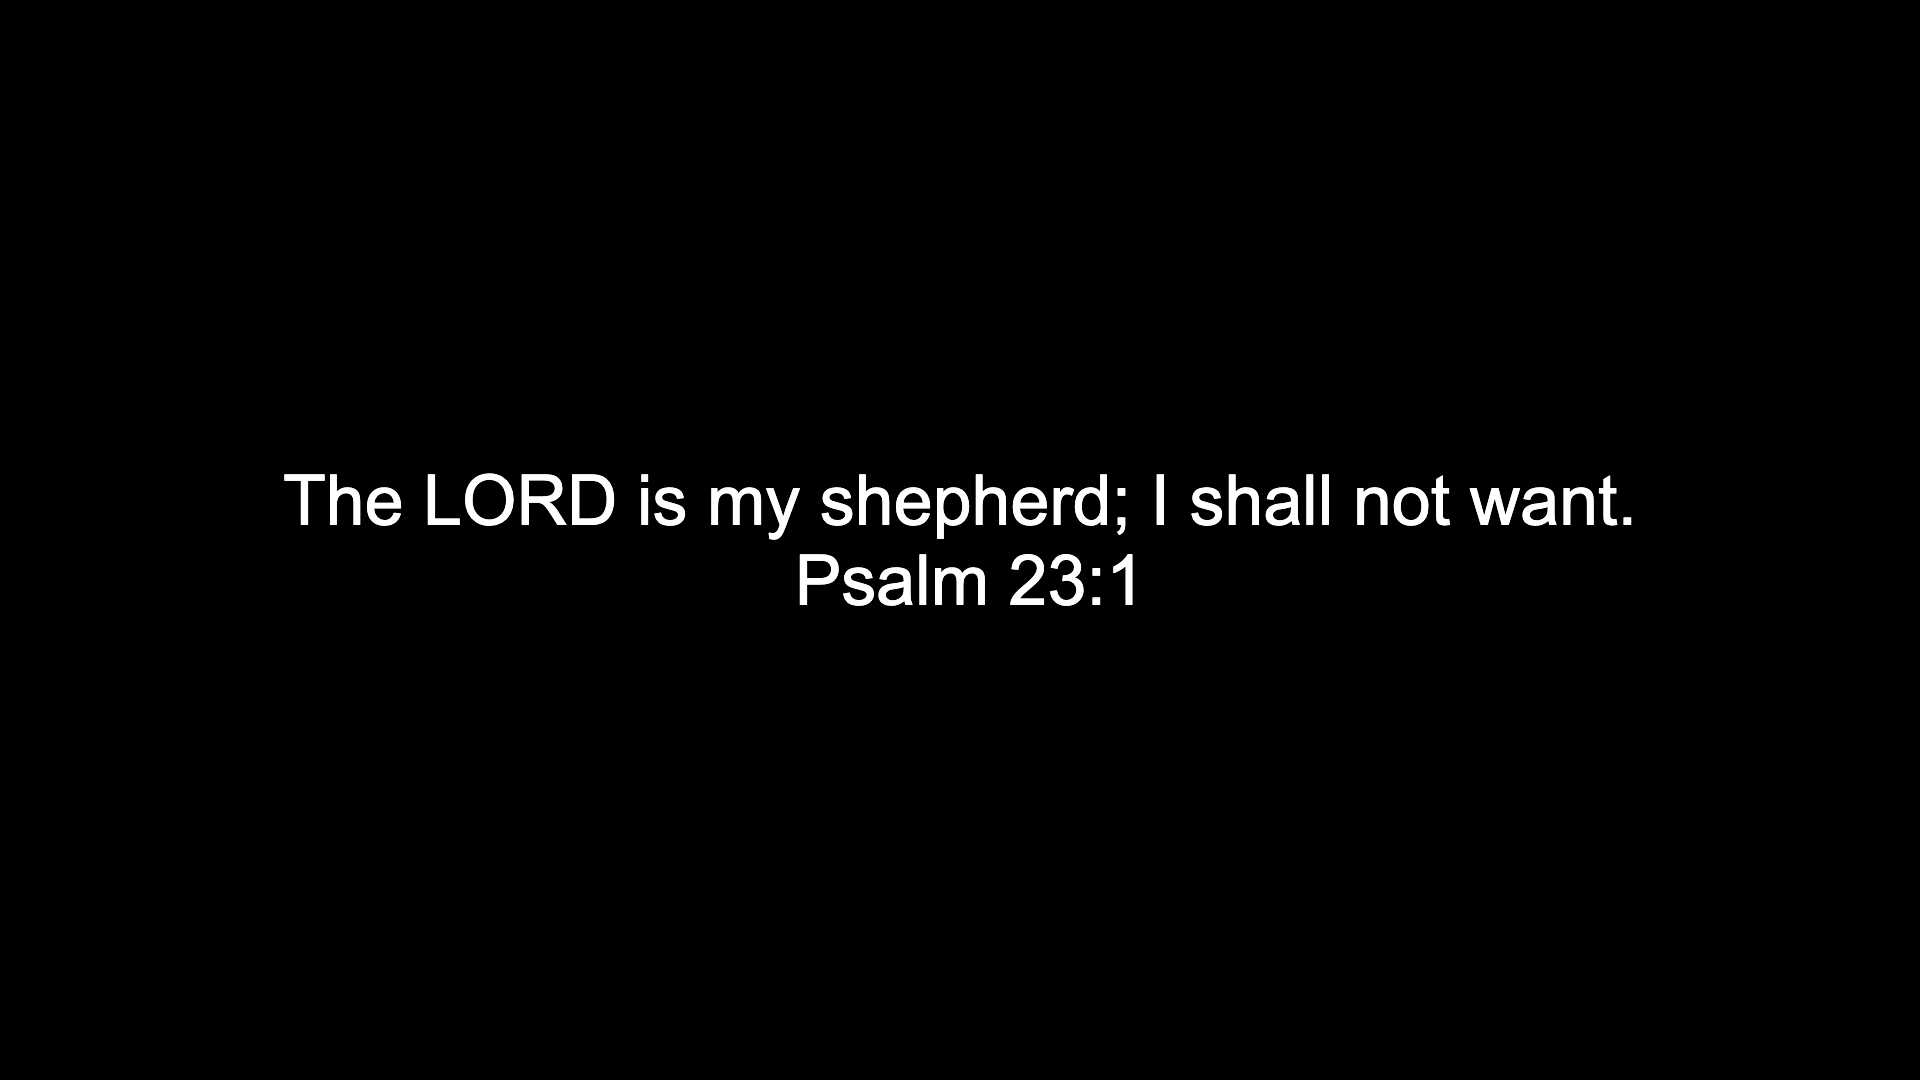
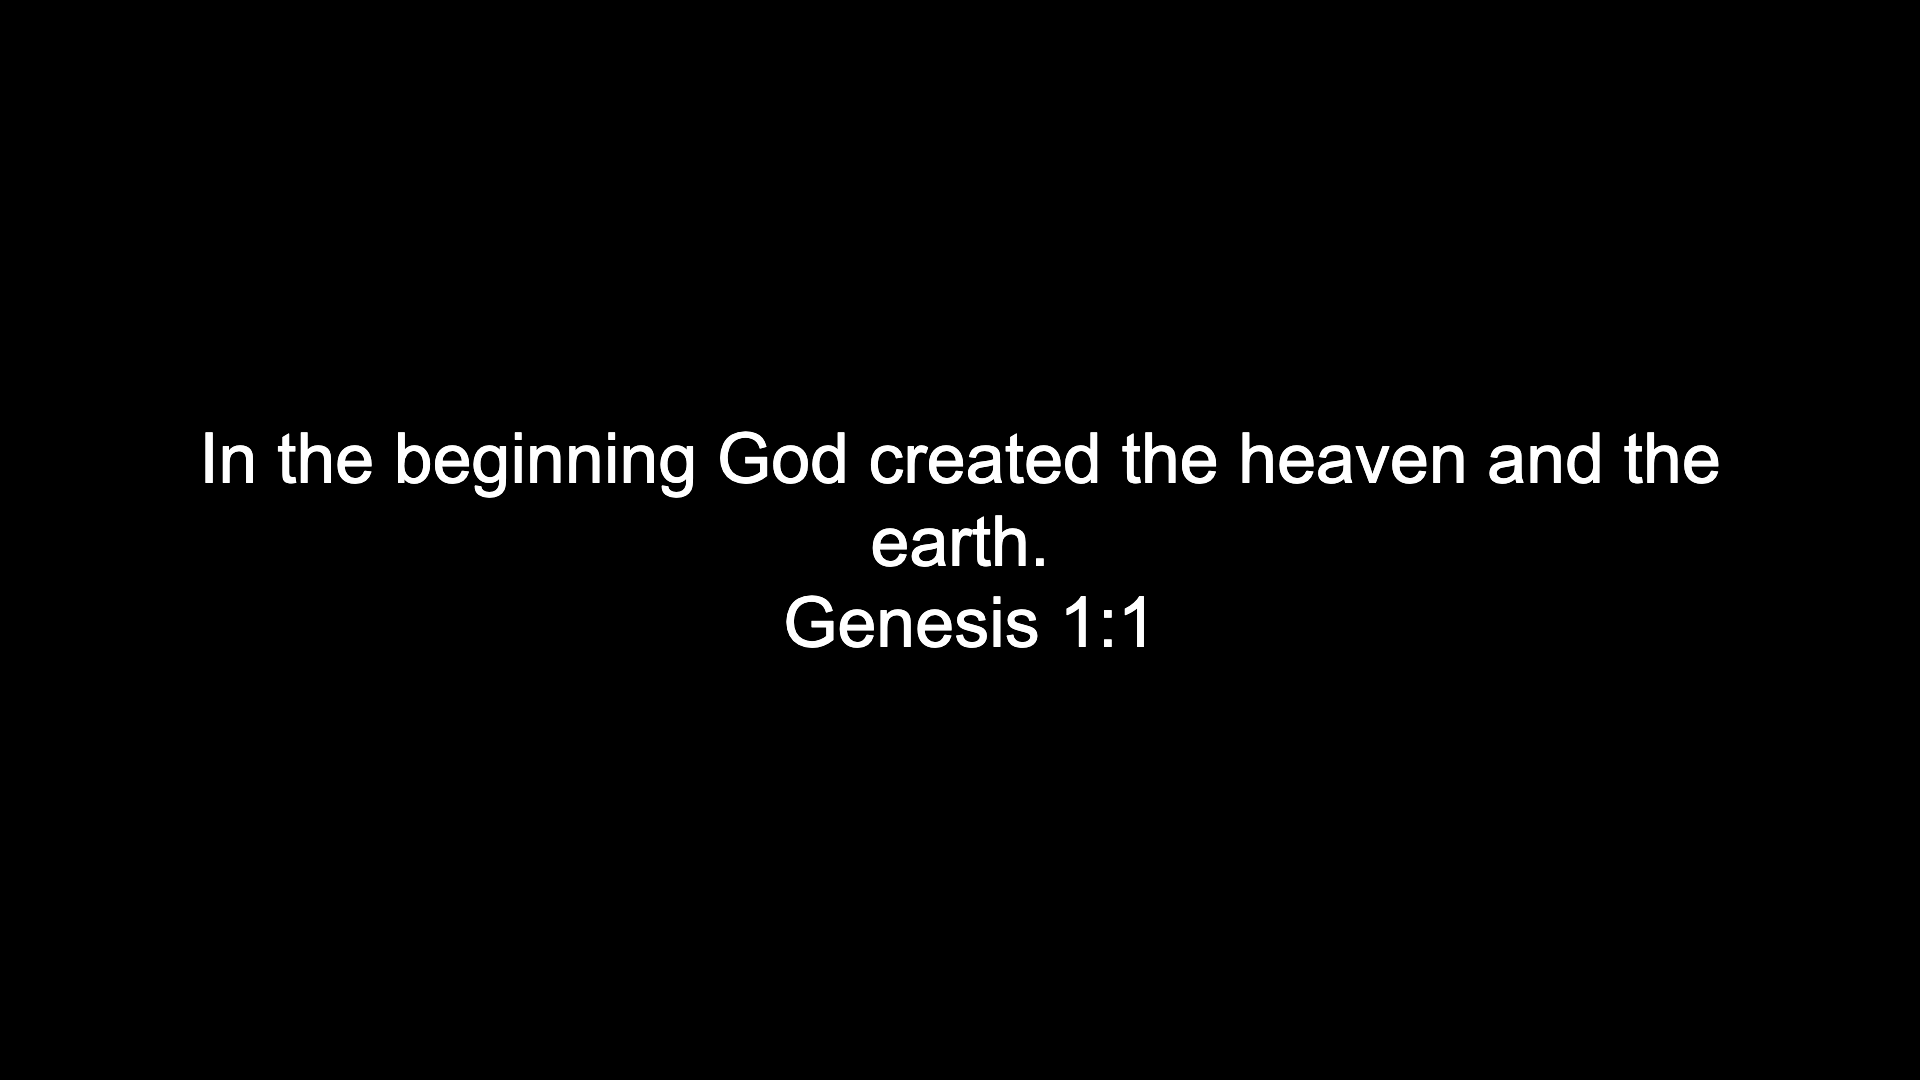
Update Bible preview screenshot to Genesis 1:1
Change AppPreviewOutputScreenshotTest sample to Genesis 1:1 (KJV) and update the expected screenshot image to match the new verse text "In the beginning God created the heaven and the earth." This aligns the test data and committed screenshot.

Changed region(s): [[0.0938, 0.3972, 0.9062, 0.6111]]

diff --git a/composeApp/src/jvmTest/kotlin/org/churchpresenter/app/churchpresenter/screenshot/AppPreviewOutputScreenshotTest.kt b/composeApp/src/jvmTest/kotlin/org/churchpresenter/app/churchpresenter/screenshot/AppPreviewOutputScreenshotTest.kt
@@ -74,10 +74,10 @@ class AppPreviewOutputScreenshotTest {
         translationFileName = "kjv1769.spb",
         bibleAbbreviation = "KJV",
         bibleName = "King James Version",
-        bookName = "Psalm",
-        chapter = 23,
+        bookName = "Genesis",
+        chapter = 1,
         verseNumber = 1,
-        verseText = "The LORD is my shepherd; I shall not want.",
+        verseText = "In the beginning God created the heaven and the earth.",
     )
 
     private fun slideBitmap(): ImageBitmap =
